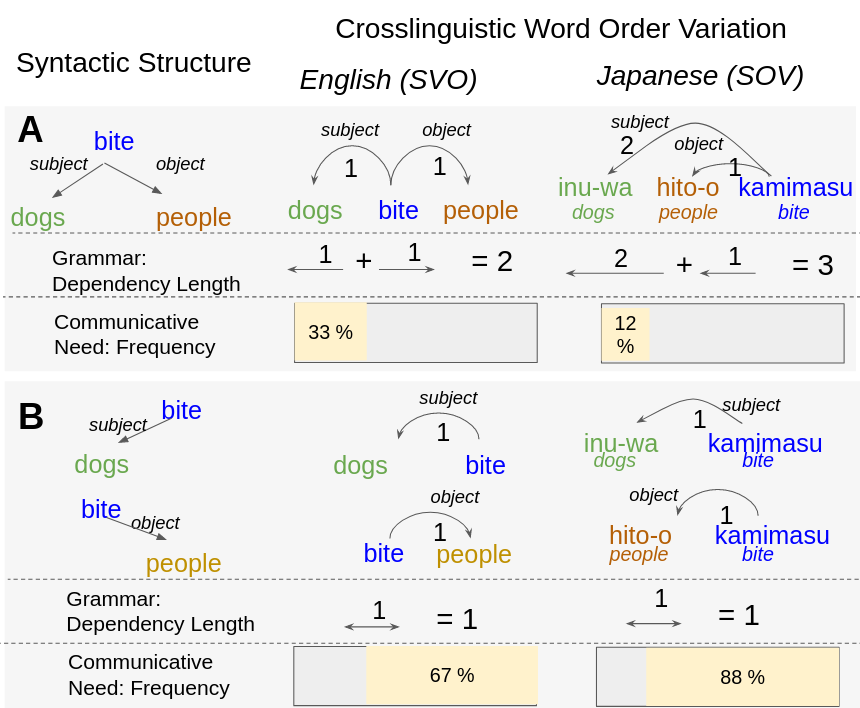
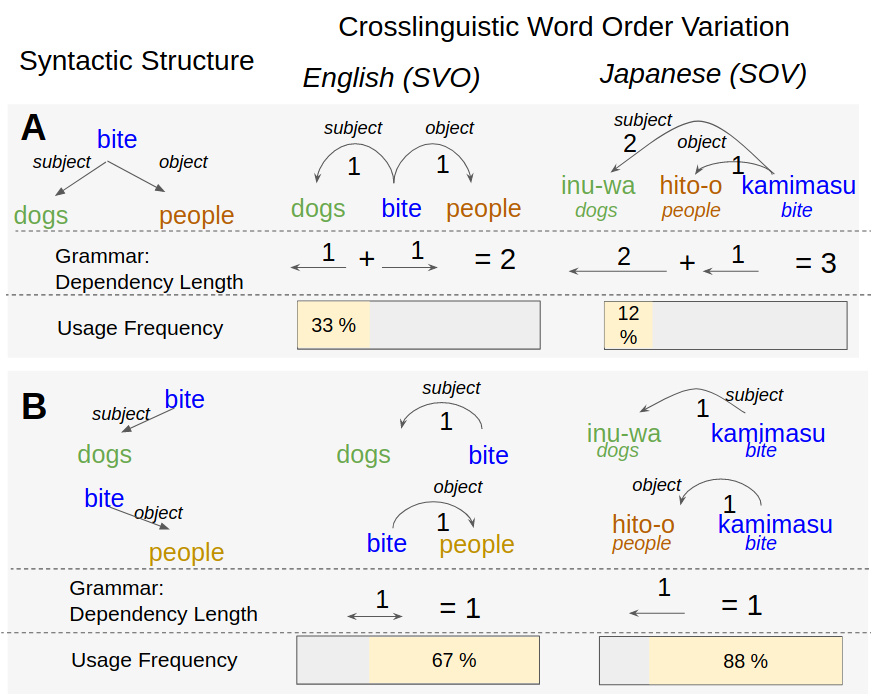
code

diff --git a/writeup/main.tex b/writeup/main.tex
@@ -76,7 +76,7 @@
 
 \begin{abstract}
 %	NO MORE THAN 250 WORDS.
-Languages vary considerably in syntactic structure. About 40\% of the world's languages have subject-verb-object order, and about 40\% have subject-object-verb order. Extensive work has sought to explain word order variation across languages. However, the existing theories are not able to explain the frequency distribution and evolution of word order in individual languages. We propose a theory of coadaptation between grammar and usage and show in 74 languages from 29 families that they exhibit the basic word order that is most efficient given the sentences typically produced by their speakers, manifested in an alignment between syntactic use and grammar optimized for Dependency Length Minimization. Drawing on phylogenetic modeling and historical text corpora from seven language families, we demonstrate that historical word order change is accompanied by change in the frequency distribution of propositions that speakers communicate. We identify relevant characteristics that reflect this joint optimization, particularly the frequency with which subjects and objects are expressed together for the same verb. Our findings suggest that syntactic structure and usage across languages co-adapt to support efficient communication under limited cognitive resources.
+	Languages vary considerably in syntactic structure. About 40\% of the world's languages have subject-verb-object order, and about 40\% have subject-object-verb order. Extensive work has sought to explain word order variation across languages. However, the existing theories are not able to explain the frequency distribution and evolution of word order in individual languages. We propose a theory of coadaptation between grammar and usage and show in 74 languages from 29 families that they exhibit the basic word order that is most efficient given the sentences typically produced by their speakers, manifested in an alignment between syntactic use and grammar optimized for Dependency Length Minimization. Drawing on phylogenetic modeling and historical text corpora from seven language families, we demonstrate that historical word order change is accompanied by change in the frequency distribution of the syntactic structures that speakers communicate. We identify relevant characteristics that reflect this joint optimization, particularly the frequency with which subjects and objects are expressed together for the same verb. Our findings suggest that syntactic structure and usage across languages co-adapt to support efficient communication under limited cognitive resources.
 \end{abstract}
 
 %Languages vary considerably in syntactic structure.
@@ -175,11 +175,11 @@ Word order variation across languages.
 English (SVO, center) and Japanese (SOV, right) linearize different syntactic structures into strings of words.
 Numbers below arcs indicate dependency length.
 Syntactic structures in A contain both a subject and an object; those in B only express one of the two.
-	The percentage bars show usage frequencies computed from large-scale English and Japanese texts {\color{blue}(see SI Section TODO)}.
+The percentage bars show usage frequencies computed from large-scale English and Japanese texts (see SI Section 10).
 In A, English achieves shorter dependency length (2, compared to 3 in Japanese).
 In B, both languages achieve the same dependency length.
 Therefore, structures as those in B are more favorable for dependency length minimization in SOV languages than those in A.
-Structures such as those in B are considerably more frequently expressed in Japanese. {\color{blue}YX to MH: suggest changing ``Communicative need'' to ``Usage'' or ``Syntactic usage''. Question: is the bottom right arrow in B correct? it's pointing toward both left and right.}
+Structures such as those in B are considerably more frequently expressed in Japanese.
 %C: The preference for SVO order is neutralized when only one of the two arguments is expressed. Sentences like these are fully grammatical in Japanese.
 }
         \label{fig:sent-dep}
@@ -191,22 +191,13 @@ Different theories have been proposed for the word order variation across langua
 % This paragraph brings the theories of EC into the picture
 One promising view suggests that cross-linguistic variation is constrained by the functional pressures of efficient communication under limited cognitive resources \citep{haspelmath2008parametric, jaeger2011on, kemp2018semantic, gibson2019how}.
 Under this view, the structure of language in part reflects the way that language is used \citep{hopper1984the, bybee1994the, croft2000explaining, bybee2006from} and adapts to optimize production and comprehension for human communication \citep{hawkins-performance-1994, haspelmath2006against, bybee2010language}.
-%<<<<<<< HEAD
-%This line of work often takes communicative need as a constant that constrains what language structures are efficient for those communicative needs (CITE e.g. some of the efficiency work in semantic typology).
-%However, there is also evidence that communicative need differs between languages, and that this is responsible for some of the differences observed between the structures of different languages \cite{perkins1992deixis, lupyan2010language, gibson2017color} (perhaps also Sapir, Piraha, ...).
-%If this is true, then changes in the communicative needs of its speakers should go hand in hand with the evolution of language structure.
-%=======
-%This line of work typically assumes that communicative need as a constant that constrains what language structures are efficient for those communicative needs. % (CITE e.g. some of the efficiency work in semantic typology).
-Existing work has also suggested that communicative need, or how frequent a linguistic element is used by its speakers, differs across languages, and that it is responsible for some of the differences observed among the structures of different languages \cite{perkins1992deixis, lupyan2010language, gibson2017color}. % (perhaps also Sapir, Piraha, ...).
+Existing work has also suggested that communicative need, or how frequent a linguistic element is used by its speakers, differs across languages, and that this is responsible for some of the differences observed among the structures of different languages \cite{perkins1992deixis, lupyan2010language, gibson2017color}. % (perhaps also Sapir, Piraha, ...).
 Relatedly, the idea that the structure of a language interacts with how that language is used has been discussed in several contexts.
 For example, it has  been documented that languages provide simpler grammatical coding for categories that are expressed more frequently \citep{greenberg1966language, haspelmath2006against}, and that structures more commonly used in some languages are more likely to be grammatically available in other languages \citep{keenan1975variation}.
 It has also been argued that discourse function shapes grammatical catgeories, for instance the noun-verb distinction \citep{hopper1984the} and the coding of grammatical roles \citep{bois1987the}.
 \cite{perkins1992deixis} provides evidence that differences in social structure account for differences in the complexity of deictic inflection across languages; \cite{lupyan2010language} show that languages in small-scale societies tend to have higher inflectional complexity.
 \cite{gibson2017color} suggest that color naming systems differ between industrialized and non-industrialized societies due to differences in the usefulness of color in a society, and it has also been argued that the sound systems of languages adapt to climate and diet of the speech community \citep{everett2015climate,blasi2019human}. Here we extend these ideas to investigate the possibility that the interaction of syntactic use and grammar might shape the variation and evolution of word order across languages.
 
-%>>>>>>> c30b2c8b483242e9c8cf900bce79422dc6718eec
-
-%Here, we draw on large-scale data and phylogenetic modeling to argue that usage and grammar are optimized jointly to maintain efficiency in language change:Languages tend to be structured efficiently for the utterances that speakers produce, and, conversely, speakers structure information in ways that are efficient given the grammar of their language.
 
 We present a new account for the variation between SOV and SVO orders and the evolution of word order across languages: Coadaptation between grammar and usage. Our coadaptation hypothesis postulates that neither SVO nor SOV is more efficient in principle.
 Rather, languages tend to have the basic word order that is most communicatively efficient given the way its speakers typically structure information. As languages change, syntactic usage and grammar evolve together such that change in frequency of syntactic usages should go hand-in-hand with change in basic word order. We provide large-scale evidence for coadaptation in word order both cross-linguistically and over the course of language evolution.
@@ -220,7 +211,6 @@ Dependency Length Minimization and related locality principles can be justified 
 
 
 
-%=======
 Our proposal of coadaptation suggests that languages have the basic word orders that are most efficient for DLM, given the ways speakers of a language typically structure information.
 We first consider a simple transitive sentence such as `dogs bite people' (Figure~\ref{fig:sent-dep}A). 
 DLM is defined formally in terms of Dependency Grammar~\citep{hays1964dependency,hudson1984word,melcuk1988dependency,corbett1993heads,tesniere2015elements}.
@@ -229,11 +219,6 @@ For instance, arcs link the verb ``bites'' to its subjects ``dogs'' and objects 
 The length of an arc is one plus the number of other words that it crosses.
 The dependency length of an entire sentence is the sum of the lengths of all dependency arcs.
 
-The grammars of languages specify how such syntactic structures are linearized into strings of words.
-{\color{blue}For instance, the grammar of English specifies subject--verb--object order for (X), the grammar of Japanese specifies subject--object--verb for (X).
-[TODO show the abstract syntactic structure also]}
-
-%Indeed, based on this consideration, \cite{ferrer-i-cancho-placement-2017} argued that DLM is generally optimized by SVO order, but we will see that the picture is more complex.
 
 %<<<<<<< HEAD
 %=======
@@ -253,114 +238,25 @@ The grammars of languages specify how such syntactic structures are linearized i
 %
 %>>>>>>> c30b2c8b483242e9c8cf900bce79422dc6718eec
 
-Figure~\ref{fig:sent-dep} shows how the same syntactic structures are linearized differently in English (SVO) and Japanese (SOV).
+The grammars of languages specify how such syntactic structures are linearized into strings of words.
+Figure~\ref{fig:sent-dep} shows how the same syntactic structures are linearized differently by the grammars of English (SVO) and Japanese (SOV).
 In a simple sentence as illustrated in Figure~\ref{fig:sent-dep}A, SVO order results in overall lower dependency length (2 instead of 3).
 The difference between the two orders is neutralized in sentences like those in Figure~\ref{fig:sent-dep}B, where only a subject or an object is expressed.
-Conversely, there are also syntactic structures where SOV achieves strictly shorter dependency lengths, such as those in Figure~\ref{fig:sent-dep}C.
+Conversely, there are also syntactic structures where SOV achieves strictly shorter dependency lengths. %, such as those in Figure~\ref{fig:sent-dep}C.
 
 The average dependency length achieved for a language depends on both the linearizations provided by grammars, and on the frequencies at which different syntactic structures are used.
 Languages differ not only in the ways they linearize these syntactic structures, but also in the frequencies at which speakers utilize them.
-Syntactic structures such as those in Figure~\ref{fig:sent-dep}A are used at significantly higher frequencies by speakers of English than speakers of Japanese.
+For instance, syntactic structures such as those in Figure~\ref{fig:sent-dep}A are used at significantly higher frequencies by speakers of English than speakers of Japanese.
 
-%<<<<<<< HEAD
 Given a distribution over syntactic structures, we can identify which grammar orders them in such a way to achieve minimal average dependency length.
-%In the simplified setting of Figure~\ref{fig:sent-dep}, SVO order achives an average dependency length of 
-%TODO introduce the optimization idea here and also in visualization.
-%
-We propose that languages evolve so that communicative preferences (which syntactic structures are chosen by speakers) and word order (how they are linearized) maintain near-optimal for DLM.
+We propose that languages evolve so that communicative preferences (which syntactic structures are chosen by speakers) and word order (how they are linearized) maintain near-optimality for DLM.
 This means that the actual word orders used by languages should be close to the most efficient possible grammar, given the distribution over syntactic structures.
 
-%In SVO order, both dependencies have length $1$, resulting in a total length of $2$.
-%In SOV order, the arc between the verb and its subject is longer because it crosses the object, resulting in a total length of $3$.
-%%However, there are other syntactic structure configuration where the picture is reversed:
-%%In Figure~\ref{fig:sent-dep}B, we consider sentences of the form `I think (that) big dogs bite people'.
-%%Here, dependency length is 5 in SVO order, and 4 in SOV order, reversing the advantage  of SVO order seen in basic sentences.
-%%Which order is favored by DLM overall?
-%This depends on the frequency distribution with which speakers of a language use different syntactic structures:
-%For example, the advantage of SVO in simple sentences is neutralized in sentences where only a subject or only an object is expressed (Figure~\ref{fig:sent-dep}C).
-%Such sentences, while not always possible in English, are very frequent in languages like Japanese.
-%Whereas 32 \%  of verbs expressing at least one argument (S or O) in an English corpus express both, only 12 \% do in Japanese (see SI Appendix, Section TODO).
-%
-%This means that the frequency with which different configurations appear in language usage influences the degree to which SVO or SOV order are more efficient for DLM.
-%This is a key idea in the proposed coadaptation hypothesis: We propose that languages evolve so that basic word order is aligned with the distribution with which speakers choose different syntactic configurations, e.g., how often they produce verbs with only one or with two arguments. 
-%
-%=======
-
-%>>>>>>> c30b2c8b483242e9c8cf900bce79422dc6718eec
-
-%(TODO here explain the idea of an optimized grammar for DLM and what the optimal basic word order would be)
-
-
-
-%The reasoning above focused on SVO and SOV, but this approach can be extended to the less common other possible orderings.
-%The crucial difference between the two orderings was whether S and O are ordered on the same or on different sides of the verb.
-%Other orderings can also be classified along this dimension, for instance, VSO as the third-most ordering patterns with SOV with respect to Figures \ref{fig:sent-dep} A--C.
-
-%<<<<<<< HEAD
-%$Note that DLM does not make predictions as to the direction in which subject and object should appear. Since the length of dependencies does not depend on their direction, there is no difference between, say, SOV and VOS.
-%$Independent principles are needed to explain why SOV and SVO are more common than, say, VOS and OVS.
-%$A key component is a strong preference for subjects to come earlier \citep{wals-81}.
-%$Subjects often are animate and given in prior discourse, and phrases with these properties generally tend to go earlier in sentences across languages \citep{prince1981toward, mcdonald1993word}.
-%$This principle favors, say, SVO over OVS, while being equally well satisfied by SVO and SOV order.
-%=======
-%Note that DLM does not make predictions as to the direction in which subject and object should appear. Since the length of dependencies does not depend on their direction, there is no difference between, say, SOV and VOS.
-%Independent principles are needed to explain why SOV and SVO are more common than, say, VOS and OVS.
-%A key component is a strong preference for subjects to come earlier \citep{wals-81}.
-%Subjects often are animate and given in prior discourse, and phrases with these properties generally tend to go earlier in sentences across languages \citep{prince1981toward, mcdonald1993word}.
-%This principle favors, say, SVO over OVS, while being equally well satisfied by SVO and SOV order.
-%>>>>>>> c30b2c8b483242e9c8cf900bce79422dc6718eec
-
-
-
-%(TODO this has to be folded into the introduction)
-
-
-%<<<<<<< HEAD
-%Here we provide evidence that languages show coadaptation between their basic word order and the frequencies with which different syntactic configurations are used.
-%%Specifically, we contrast orderings that order S and O on the same or different sides of the verb.
-%We test the coadaptation hypothesis using data from 74 languages by computing, for each language, which basic word order is most efficient given its usage distribution as recorded in large-scale text corpora. We then use a model of drift on phylogenetic trees to assess whether languages have evolved historically toward states where usage distributions and actual basic word order are aligned.
-%=======
 Here we provide evidence that languages show coadaptation between their basic word order and how different syntactic configurations are used.
-%Specifically, we contrast orderings that order S and O on the same or different sides of the verb.
 We test the coadaptation hypothesis using data from 74 languages by computing, for each language, which basic word order is most efficient given its usage distribution as recorded in large-scale text corpora.
 We then use a model of drift on phylogenetic trees to assess whether languages have evolved historically toward states where syntactic usage frequency and basic word order are aligned.
-%>>>>>>> c30b2c8b483242e9c8cf900bce79422dc6718eec
 
 
-
-%Now explain examples from presentations, in particular how frequency of co-expression of S and O can differentially favor SVO or SOV. {\color{blue} this is good -- i wonder if you want to illustrate the throught experiment or the basic idea of coadaptation in an opening diagram.}\\
-
-
-
-
-%\comment{at the end of the intro, it might benefit to provide a preview or plan for the rest of the paper, i.e. you could say how we plan to test the coadaptation hypothesis in x, y, z, ways, so that the later studies can be pre-empted here so as not to be very surprising.}
-
-%{\color{blue}4. related to the above paragraph -- state limitations of existing theory/approach and our proposal. Articulate how existing theories of efficient communication may be limited or insufficient to explain basic word order variation across languages, and change over time. Therefore introduce the new proposal of coadaptation. (also, if we stick with ``coadaptation'', then don't use ``co-adaptation'') }
-
-%\mhahn{TODO fix this}
-
-%existing proposals insufficient:
-
-
-
-%Existing efficiency-based theories of word order variation:
-
-
-
-
-
-
-%http://tedlab.mit.edu/tedlab_website/researchpapers/Gibson_et_al_2013_PsychSci.pdf
-
-%- our results argue against work that has suggested SVO as the more efficient order (Gibson et al 2013, \url{https://www.ncbi.nlm.nih.gov/pmc/articles/PMC4534792/})
-
-%\url{https://www.eva.mpg.de/fileadmin/content_files/linguistics/conferences/2015-diversity-linguistics/Hammarstroem_slides.pdf}
-
-%- Trudgill,2011
-
-%- Gell-MannandRuhlen2011,MauritsandGriths2014
-
-%\section{Study 1: Evidence for Coadaptation}
 \section*{Results}
 
 \subsection*{Cross-linguistic Evidence for Coadaptation}
@@ -382,40 +278,24 @@ We quantify the position of an individual language on the continuum between SVO 
 This metric indicates the chance that two randomly selected instances of S and O from a corpus -- not necessarily from the same sentence -- are on the same side of their respective verbs. This number is 1 in strict SOV languages like Japanese, close to 0.5 in languages with flexible word order, and close to 0 in English.
 
 
-%<<<<<<< HEAD
 We estimate both usage frequency and the observed subject-object position congruence using datasets of tree structures from 74 languages from 29 language families (\citep{zeman2020universal}, see Materials and Methods for details).
 These datasets contain written text for 73 languages, and transcribed spoken text for six languages (see Methods).
 
-We represent optimized orderings using the  established model of counterfactural order grammar introduced by \cite{gildea-optimizing-2007}.
+We represent optimized orderings using the  established model of counterfactural order grammars introduced by \cite{gildea-optimizing-2007}.
 These are simple, parametric models specifying how the words in a syntactic structure are linearized depending on their syntactic relations.
-For instance, such a grammar may specify that subjects follow or precede verbs, and that adjectival modifiers follow or precede nouns (see Materials and Methods for details).
+They specify the orders not just of subjects and objects, but also of all other syntactic relations annotated in the syntactic structures, such as adpositions, adjectival modifiers, or relative clauses.
+For instance, such a grammar may specify that subjects follow or precede verbs, that adpositions are pre- or postpositions, and that adjectival modifiers follow or precede nouns (see Materials and Methods for details).
 We use the optimization algorithm in \cite{hahn2020universals} to efficiently construct grammars that approximately minimize average dependency length using stochastic gradient descent.
-%=======
-%We compare the orderings actually found in a language with the distribution that would be optimal for DLM, given the tree structure distributions for the language.
-%We represent such optimal orderings using the  established model of counterfactural order grammar introduced by \cite{gildea-optimizing-2007} (see Materials and Methods).
-%%Optimized grammars are computed based entirely on the distribution of unordered tree topologies occurring in the corpora, e.g. how often verbs express one or two arguments (Figure~\ref{fig:sent-dep}), without any reference to the orderings observed in the corpora.
-%%These optimized grammars reflect what orderings would be most efficient given the usage distribution of tree topologies as reflected in the corpus, independently of the actual orderings that the grammar of the language specifies.
-%
-%We approximate communicative need using datasets of tree structures from 74 languages from 29 language families (\citep{zeman2020universal}, see Methods for details).
-%These datasets contain written text for 73 languages, and transcribed spoken text for six languages (see Methods).
-%>>>>>>> c30b2c8b483242e9c8cf900bce79422dc6718eec
 In order to control for variation across different optima, for each of the 74 languages, we construct 15 approximately optimized grammars, and compute the average subject-object position congruence across these counterfactual orderings.
 
 
 
 
-%We propose two quantitative metrics measuring where a language falls on this spectrum.
-%First, we count how often S and O appear on the same side of a verb that realizes both S and O arguments ({Same-Side Count}).\mhahn{Are there better names for these measures?}
-%This measure does not take into account what happens in sentences where only S or O is realized.
-
-%We compare the orderings actually found in a language with the optimal orderings. %distribution that would be optimal for DLM, given the tree structure distributions for the language.
-%Optimized grammars are computed based entirely on the distribution of unordered tree topologies occurring in the corpora, e.g. how often verbs express one or two arguments (Figure~\ref{fig:sent-dep}), without any reference to the orderings observed in the corpora.
-%These optimized grammars reflect what orderings would be most efficient given the usage distribution of tree topologies as reflected in the corpus, independently of the actual orderings that the grammar of the language specifies.
 While the optimized grammars and the attested orders are computed on the basis of the same corpus data, the optimized grammars are derived entirely and independently from the tree topologies, and the original word orders are not involved in their calculation (See SI Section S9 showing that results hold similarly when estimating optimized grammars and attested orders using disjoint subsets of corpora).
 
 
 
-Our coadaptation hypothesis states that the basic word order of languages tends to be the one that is most efficient given the tree structures used in the given language.
+Our coadaptation hypothesis states that the basic word order of languages tends to be the one that is most efficient given the syntactic structures used in the given language.
 Therefore, we expect that the subject-object position congruence of optimized orderings should correlate with a language's empirical subject-object position congruence.
 Otherwise, if one order is more efficient in principle, or there is no systematic association between basic word order and DLM, then no such relation should be seen.
 
@@ -429,7 +309,7 @@ Otherwise, if one order is more efficient in principle, or there is no systemati
 
 
 
-In Figure~\ref{fig:study1}A, we visualize the empirically observed subject-object position congruence against the average subject-object position congruence of the grammars  approximately optimized for syntactic use, in the 74 languages.
+In Figure~\ref{fig:study1}, we visualize the empirically observed subject-object position congruence against the average subject-object position congruence of the grammars  approximately optimized for syntactic use, in the 74 languages.
 Without controlling for dependencies between related languages, optimized and attested subject-object position congruence are strongly correlated ($R=0.47$, $95\%$ CI $[0.28, 0.64]$, $p<10^{-4}$). % analysis/output/correlation.txt
 On spoken data from six languages, we also found a strong and significant correlation ($R=0.94$, 95\% CI $[0.56, 1.0]$, $p=0.0048$).
 In order to account for the statistical dependencies between related languages more rigorously, we performed a regression analysis where we entered language families as random effects with random slopes and intercepts.
@@ -457,7 +337,7 @@ Second, using phylogenetic information, the model can also draw strength from co
 Data from related languages may permit inferences about their (undocumented) common ancestor, and thus about possible trajectories of historical change \citep{pagel2004bayesian, dunn-evolved-2011, maurits2014tracing}.
 
 
-We used a model of drift (or random walks) on phylogenetic trees \citep{felsenstein1973maximum,pagel1997inferring, pagel2004bayesian} to model how grammar and communicative need of a language evolve over time, in order to test the coadaptation hypothesis over history.
+We used a model of drift (or random walks) on phylogenetic trees \citep{felsenstein1973maximum,pagel1997inferring, pagel2004bayesian} to model how grammar and usage frequencies of a language evolve over time, in order to test the coadaptation hypothesis over history.
 We describe the state of a language $L$ at time $t$ as a vector $\xi_{L,t} = (X_{L,t}, Y_{L,t})$ in the plane spanned by usage (optimal subject-object position congruence) and grammar (real subject-object position congruence).
 Whenever a language splits into daughter languages, the point $\xi_{L,t}$ continues to evolve independently in each daughter language.
 As the components of $\xi_{L,t}$ are continuous, we model their change over time using a random walk given by an Ornstein-Uhlenbeck process (\citep{felsenstein1988phylogenies,hansen1997stabilizing, blackwell2003bayesian}, see Materials and Methods for details).
@@ -470,17 +350,8 @@ We obtained phylogenetic trees for the 74 languages in our sample (see Methods),
 We fitted the parameters of the model using Hamiltonian Monte Carlo methods (see Materials and Methods for details).
 
 
-%First, for several languages, corpus data from different stages is available.
-%For example, there are dependency treebanks both of contemporary English and Old English (approx. 900 AD).
-%There are also cases where data is available from the ancestor of several contemporary languages (e.g., Latin is the ancestor of seven languages in our dataset).
 
-
-%We obtained phylogenferenvnetic trees for the languages in our dataset (see Materials and Methods for details).
-%We modified these trees by adding historical stages of existing languages for which we have corpora, such as Old English (approx. 900 AD) as an ancestor of English.
-
-
-
-We visualize the resulting model fit in Figure~\ref{fig:drift-model}.
+We visualize the resulting model fit in Figure~\ref{fig:drift-model} (left).
 The blue distribution indicates the stationary distribution of the process, i.e., after long-term evolution, a language will tend to be lie within this distribution.
 For illustration, we also illustrate the predicted direction of future changes in four languages in red (English, Russian, Arabic, Japanese).
 
@@ -490,22 +361,8 @@ In the stationary distribution, the positions that languages occupy along the tw
 Model fit was considerably worse in a lesioned model where the correlation between changes in both direction was constrained to be zero (estimated Bayes Factor: 232). % change/ornuhl-binom/noLatents_logodds_approx/marginal_likelihood/comparison.txt
 
 
-%\begin{figure}
-%    \centering
-%    \includegraphics[width=0.5\textwidth]{../change/visualize/stationary.pdf}
-%    \caption{}
-%    \label{fig:drift-model}
-%\end{figure}
 
-%\begin{figure}
-%    \centering
-%    \includegraphics[width=0.5\textwidth]{TODO}
-%    \caption{The phylogenetic tree used in our analysis.}
-%    \label{fig:phylogenetic-tree}
-%\end{figure}
-
-
-We visualize the evolution of languages where multiple historical stages are documented in Figure~\ref{fig:historical}.
+We visualize the evolution of languages where multiple historical stages are documented in Figure~\ref{fig:historical} (right).
 The sample includes multiple languages that started with flexible order and moved towards SVO (English, East Slavic, Eastern South Slavic, Greek, Romance), languages that have remained SVO (Chinese), and languages that have remained predominantly SOV (Indo-Aryan).
 % for English
 % for Romance
@@ -516,16 +373,8 @@ The sample includes multiple languages that started with flexible order and move
 % for Indo-Aryan
 
 Languages that have preserved SVO (Chinese) or SOV order (Indo-Aryan) show little movement in either dimension.
-%, predicted subject-object position congruence moved towards its true values; that is, these languages appear to have evolved their usage patterns in a way that makes their basic word order more efficient.
-%The two Indo-Aryan languages in our sample, which have remained predominantly SOV, show little movement in either dimension, slightly away from the diagonal.
 The other languages (East Slavic, Eastern South Slavic, English, Greek, Romance), which started with flexible order and moved towards SVO, moved along or towards the diagonal, i.e., usage and grammar changed so that attested and optimized subject-object position congruence stayed approximately aligned.
 
-%\mhahn{is there a way to also quantify this result?}
-%\comment{** yes it might be desirable and even necessary to quantify these results -- is there any alignment metric we can use to determine how well the historical shift aligns with the diagonal, or S-O Position Congruence reference points? and then compare that alignment metric to some chance value, e.g. by shuffling data across time or era---use this as a null distribution; then report the p-value of the observed, non-shuffled cases? you can then juxtapose the null trajectories (mean + confidence band, in very light color) on the plot to show people how the real trajectory of historical change deviates from the null.}
-
-%We compare to counterfactual trajectories where
-%- languages changed only in usage or in order
-%- we 
 
 While our sample includes historical languages that later shifted towards SVO (low subject-object position congruence), it does not include historical languages that later shifted towards SOV (high subject-object position congruence).
 The model (and the coadaptation hypothesis) predicts that a language that changed towards SOV should have correspondingly moved towards the top-right of the plane. 
@@ -536,12 +385,11 @@ A lesioned version of our model that explicitly prohibits a bias in development 
 
 
 \begin{figure*}
-%    \centering
     \includegraphics[width=0.32\textwidth]{../change/visualize/stationary.pdf}
     \includegraphics[width=0.65\textwidth]{../analysis/figures/historical_2.6_times_stationary_layout.pdf}
     \caption{Result of the phylogenetic drift analysis.
 	Left: Estimated long-term stationary distribution of languages (indicated in blue), describing where languages tend to lie after long-term evolution.
-    The red distributions indicate predicted states for four individual languages over the next 100 years. Languages are predicted to show co-evolution along grammar (x-axis)  and communicative need (y-axis).	    
+    The red distributions indicate predicted states for four individual languages over the next 100 years. Languages are predicted to show co-evolution along grammar (x-axis)  and usage frequencies (y-axis).	    
 Right: The evolutionary trajectories of seven languages or language families with documented ancestors. For each point in the trajectories, we indicate an approximate date. The blue background distribution indicates the long-term stationary distribution of all languages combined according to the phylogenetic analysis. }
     \label{fig:historical}\label{fig:drift-model}
 \end{figure*}
@@ -665,7 +513,7 @@ We have investigated the frequency distribution and historical change of word or
 
 
 Our results go beyond existing efficiency-based accounts of word order by making specific predictions for individual languages based on their tree structure distributions.
-\cite{maurits2010why} propose that the frequency of different basic word order patterns is predicted by a tendency to avoid peaks and troughs in the rate at which information is transmitted, but their model does not (though \cite{gonering-morgan-2020-processing} report a replication with diverging results).
+\cite{maurits2010why} propose that the frequency of different basic word order patterns is predicted by a tendency to avoid peaks and troughs in the rate at which information is transmitted (though \cite{gonering-morgan-2020-processing} report a replication with diverging results).
 The model of \cite{maurits2010why} accounts for the low frequency of O-initial orders, but it underpredicts SOV and predicts SVO as the most efficient order even when it is applied to Japanese (i.e., an exemplary language for SOV order).
 In comparison, our account explains the language-dependence of basic word order.
 For Japanese, DLM correctly predicts S and O to be on the same side of the verb (Figure~\ref{fig:sent-dep}), in contrast with the model of \cite{maurits2010why} that predicts SVO across languages. % {\color{red} that predicts differently how, say more?}.
@@ -804,7 +652,7 @@ Our work combines evidence from richly annotated syntactic corpora with phylogen
 %We use the optimization algorithm in \cite{hahn2020universals} to efficiently construct grammars that approximately minimize average dependency length using stochastic gradient descent.
 
 
-The counterfactual order grammars have a weight in $[-1, 1]$ for every syntactic relation annotated in the corpora (e.g., subject, object).
+The counterfactual order grammars have a weight in $[-1, 1]$ for every one of the 37 syntactic relation annotated in the Universal Dependencies 2.6 corpora (e.g., subject, object).
 Dependents of a head are ordered around it in order of these weights; dependents with negative weights are placed to the left of the head, others to its right.
 Optimized grammars are created using the gradient descent method described by \citep{hahn2020universals}.
 
